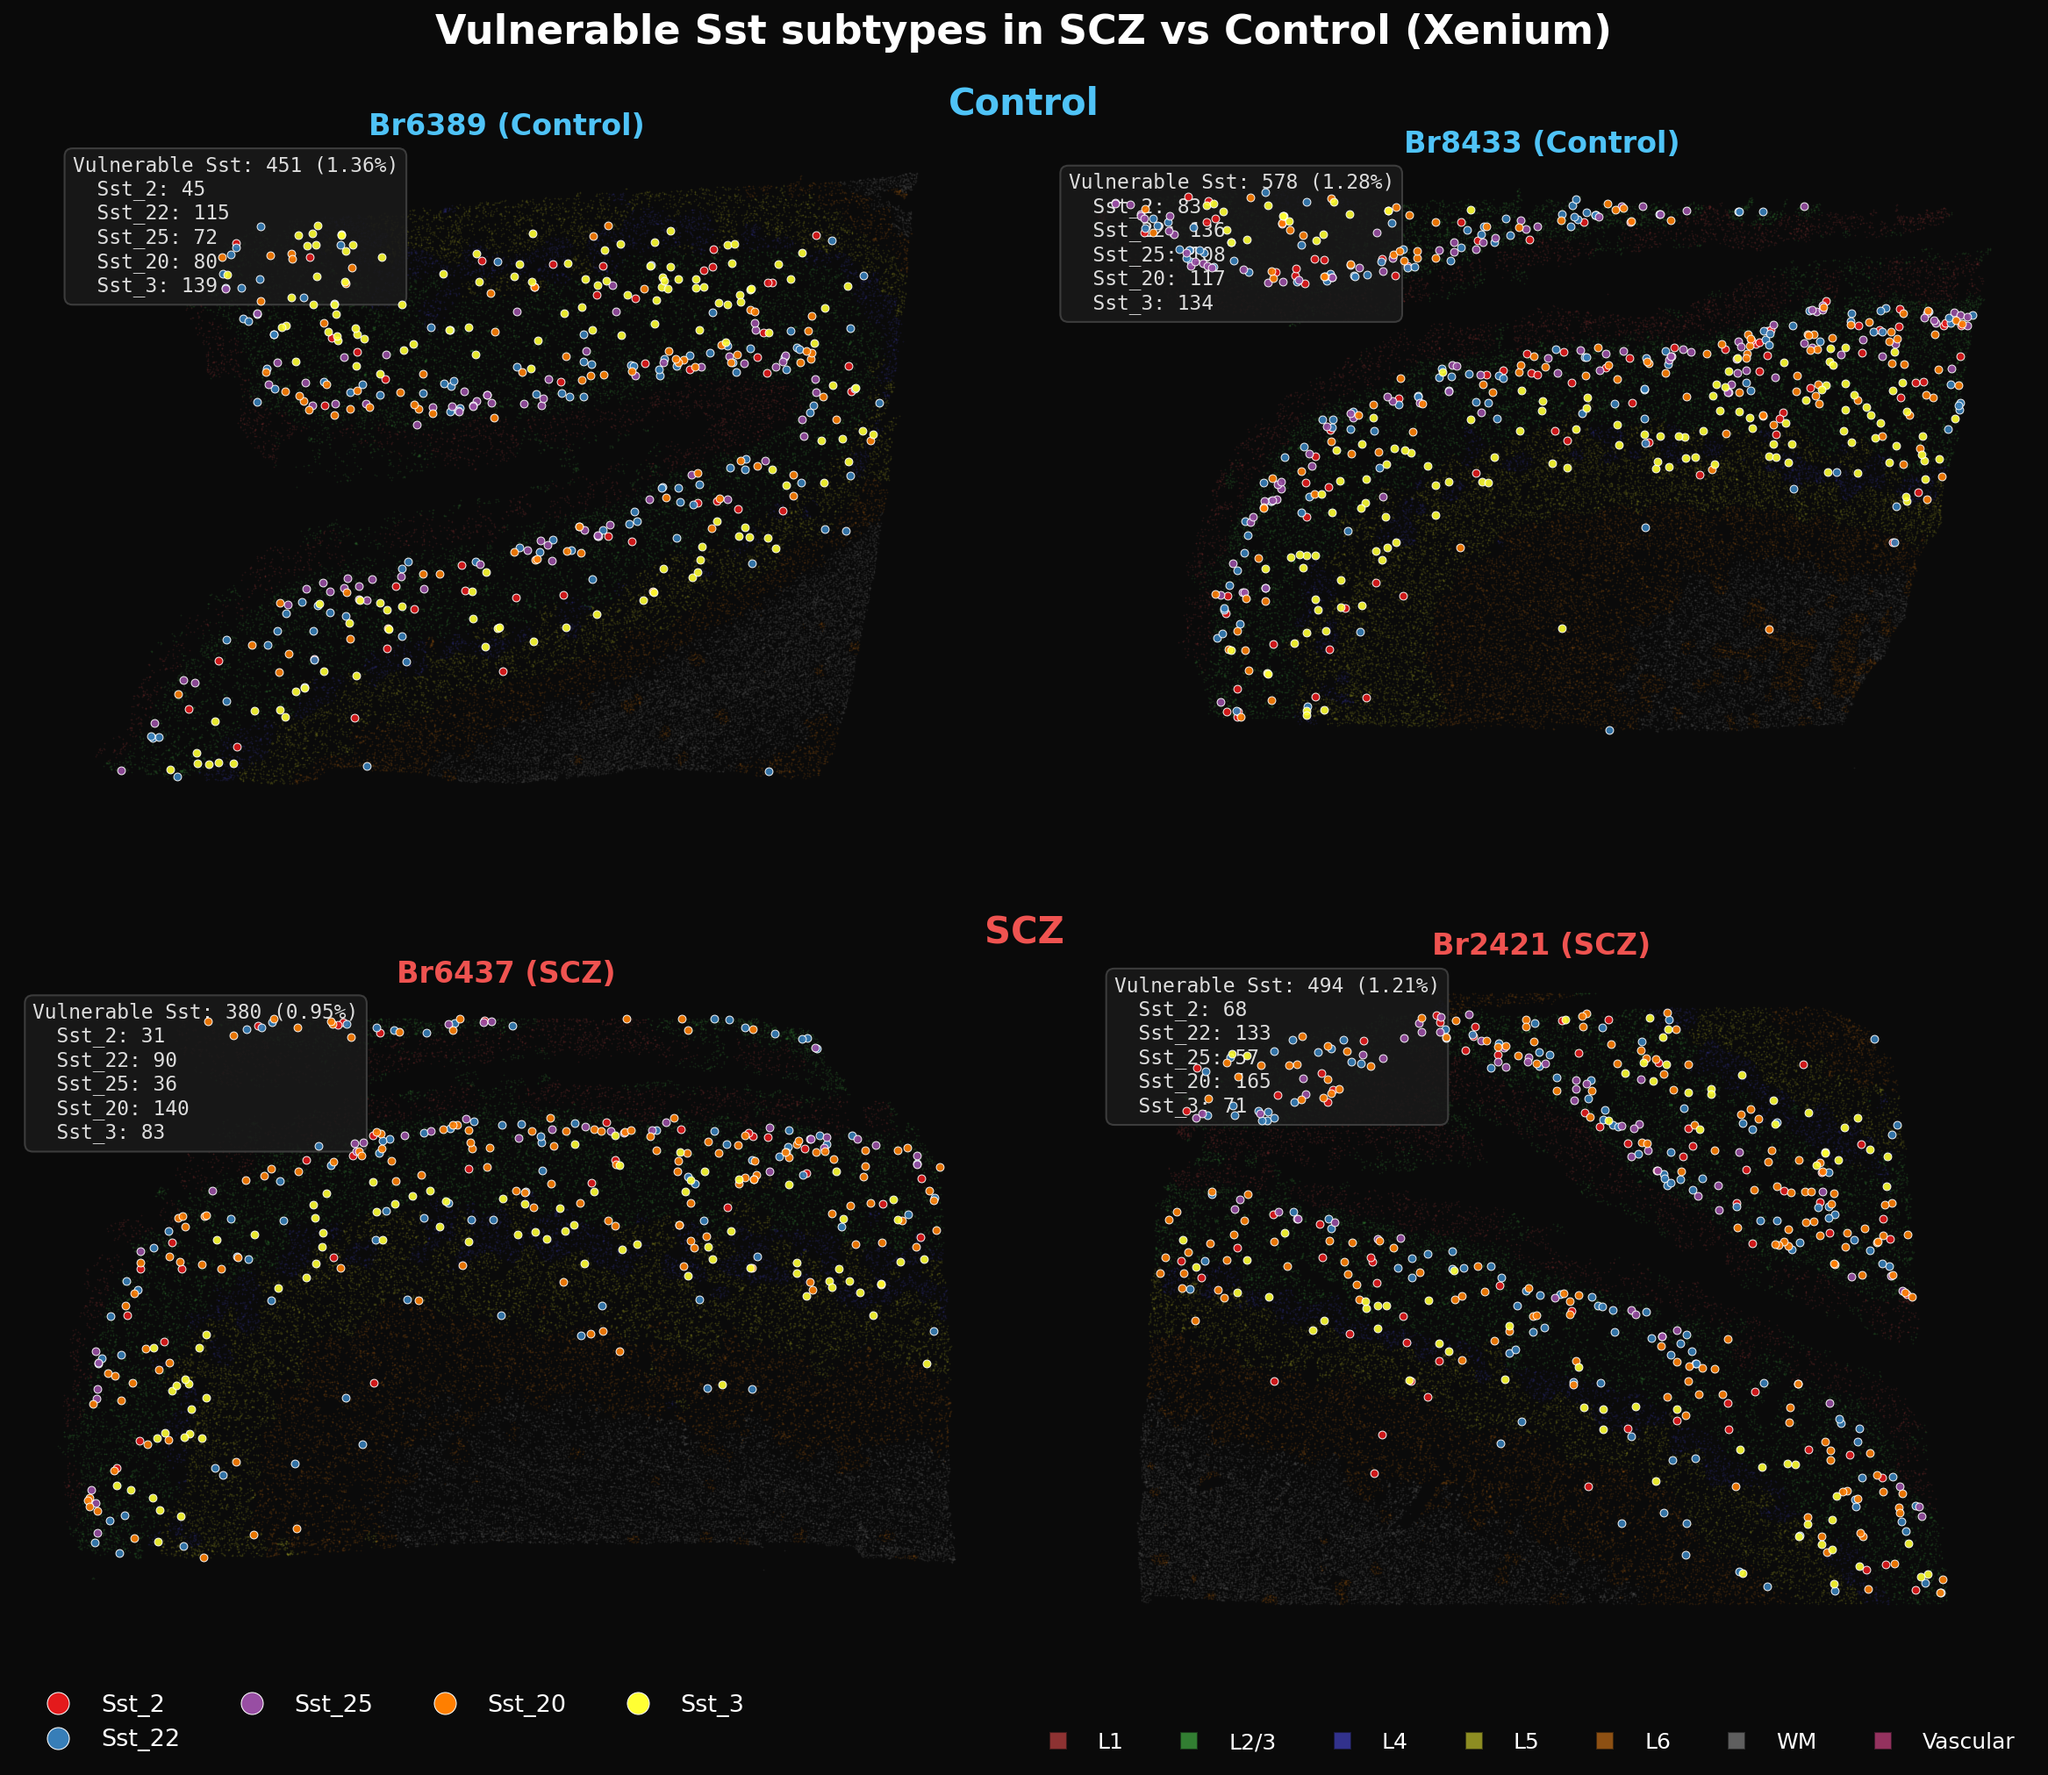
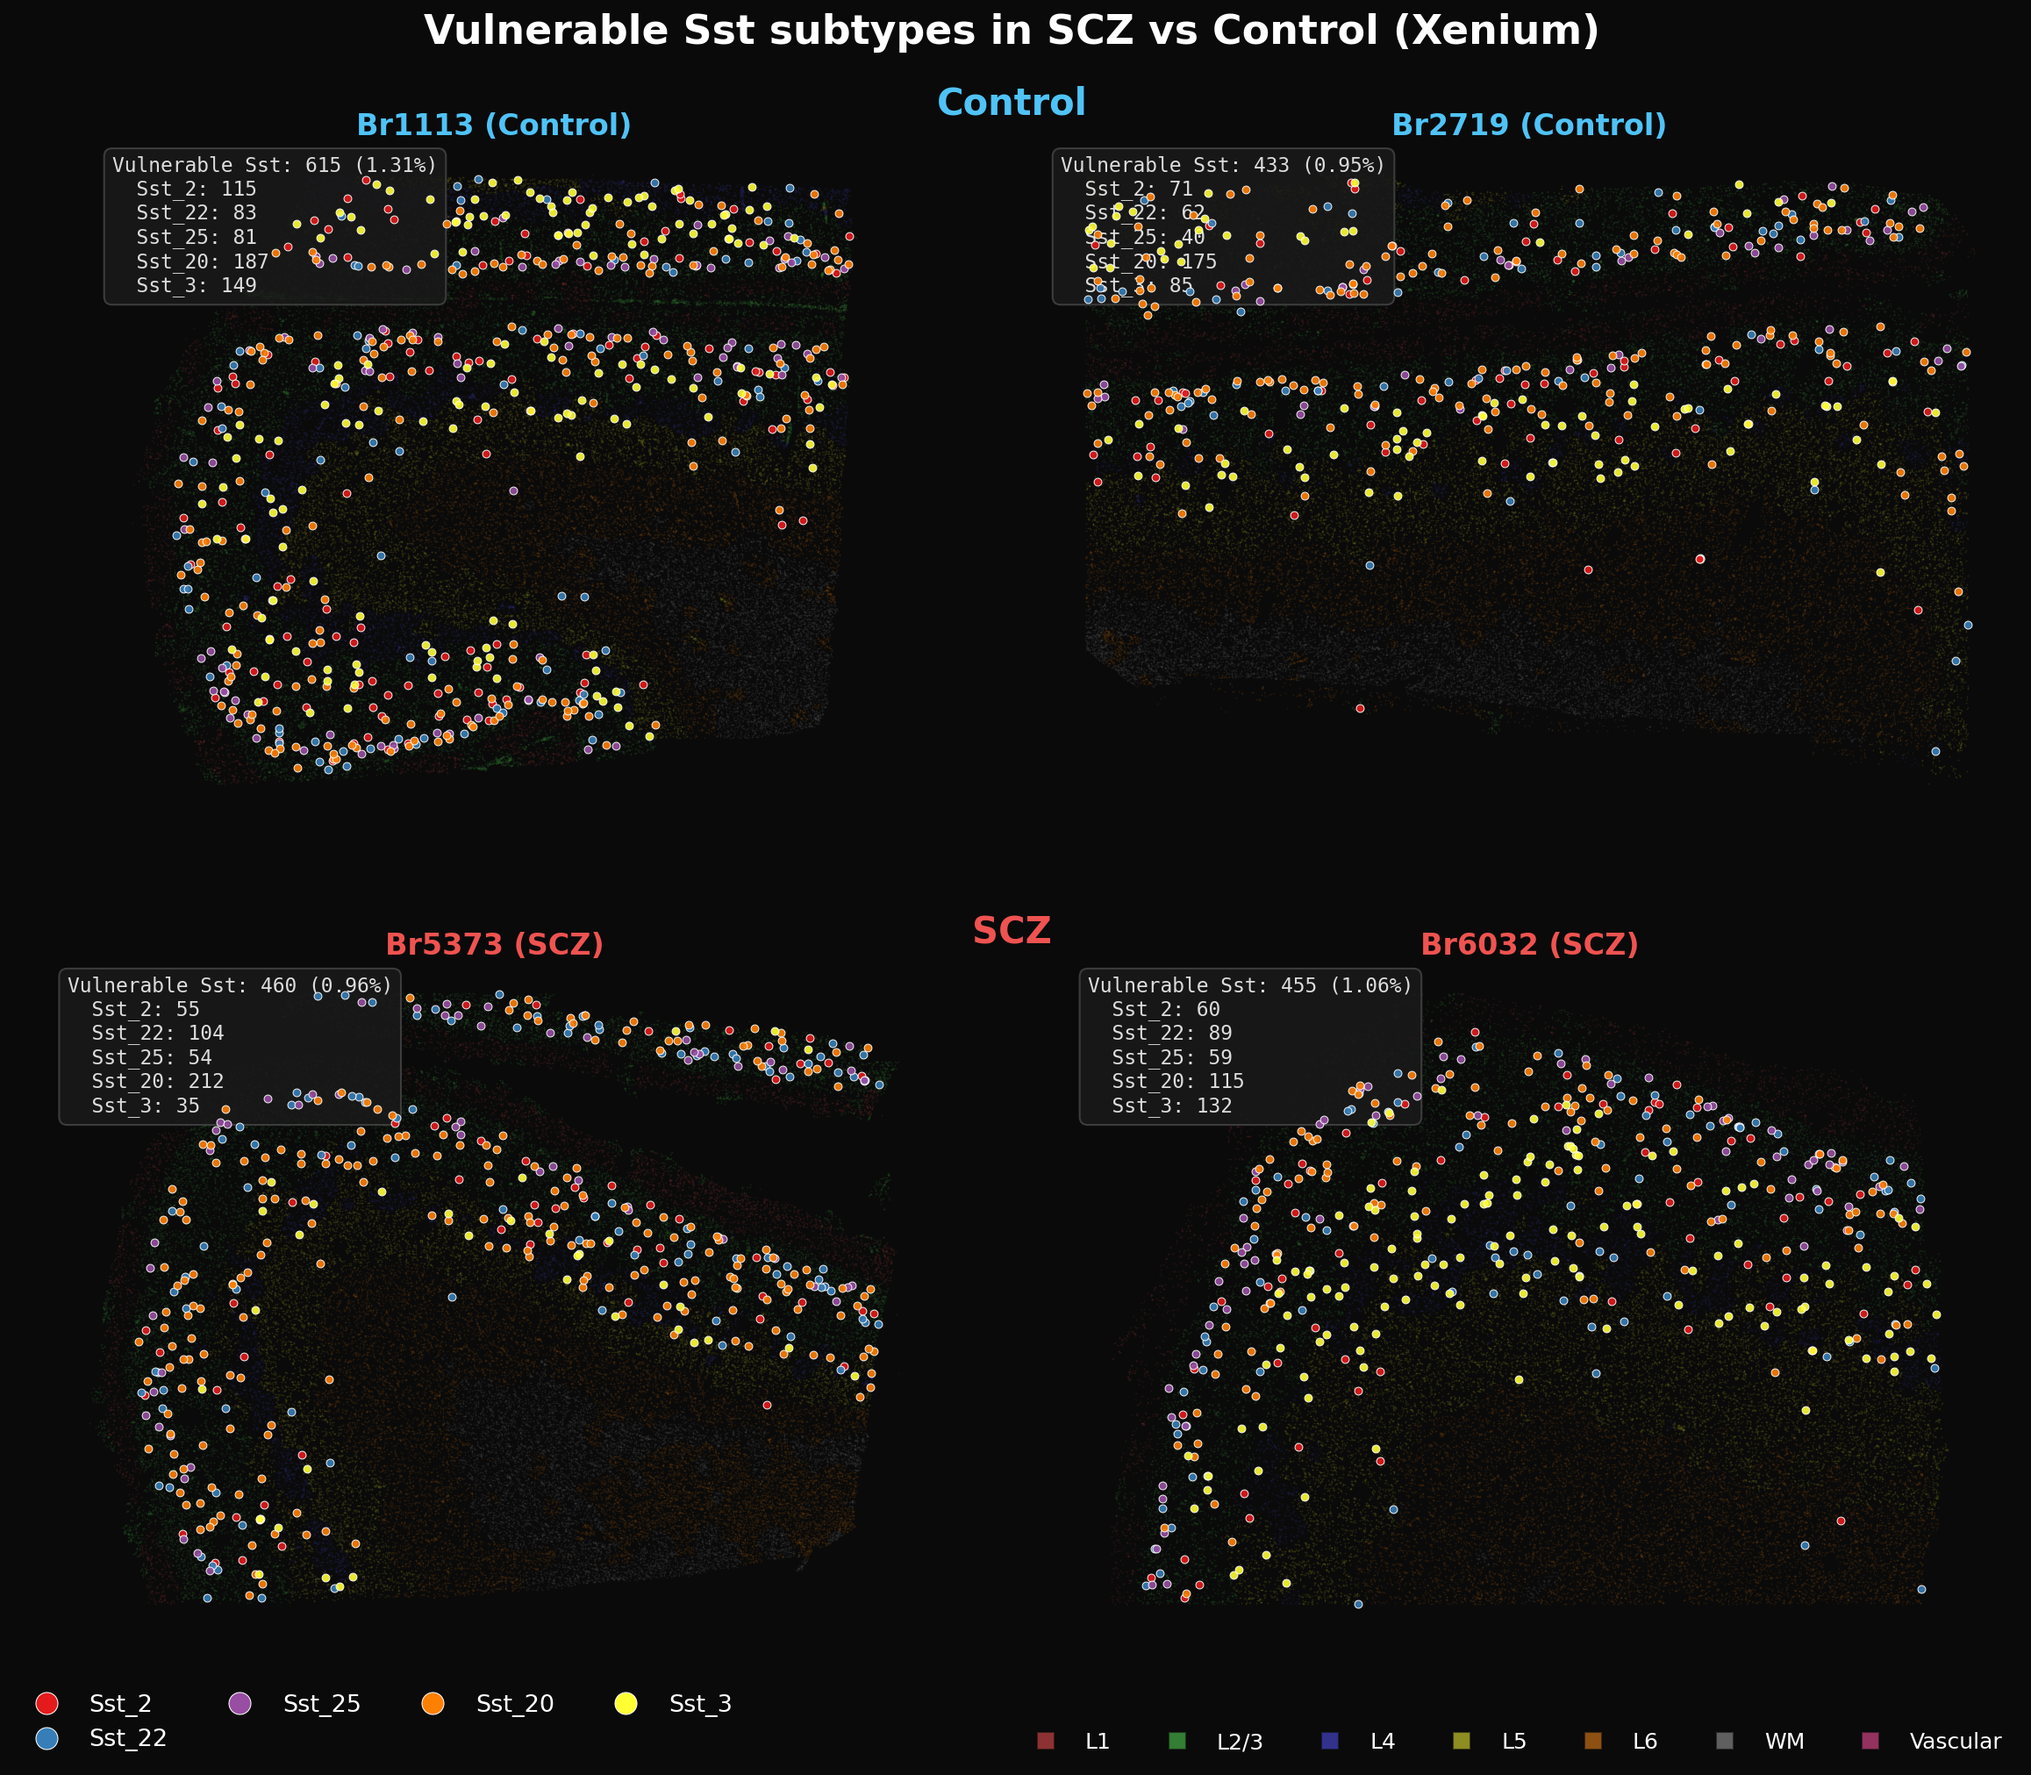
Restructure concordance doc, add depth figures, update representative samples
- Move supertype boxplots and spatial figures from Section 3 to end of
  Section 2 (SCZ effects), keeping Section 3 focused on conclusions
- Remove L6b spatial figure; keep Sst spatial with median-representative
  samples (Br1113, Br2719, Br5373, Br6032 — closest to group medians)
- Add depth-stratified figures to Section 3.1: oligo L2/3 detail,
  non-neuronal depth profiles (proportion + density), layer heatmap
- Track all depth_proportions PNGs via gitignore exception
- Update config.py REPRESENTATIVE_SAMPLES with median-selection rationale

diff --git a/code/analysis/config.py b/code/analysis/config.py
@@ -114,14 +114,17 @@ L6B_COLORS = {
 }
 
 # ──────────────────────────────────────────────────────────────────────
-# Representative samples (median for both SST and L6b, good cortical coverage)
+# Representative samples — closest to group medians for vulnerable Sst
+# proportion, with good cortical coverage (>27K cells).
+# Control median=1.59%: Br1113=1.66% (d=0.06), Br2719=1.53% (d=0.06)
+# SCZ median=1.33%: Br5373=1.32% (d=0.008), Br6032=1.34% (d=0.008)
 # ──────────────────────────────────────────────────────────────────────
 
 REPRESENTATIVE_SAMPLES = [
-    ("Br6389", "Control"),
-    ("Br8433", "Control"),
-    ("Br6437", "SCZ"),
-    ("Br2421", "SCZ"),
+    ("Br1113", "Control"),
+    ("Br2719", "Control"),
+    ("Br5373", "SCZ"),
+    ("Br6032", "SCZ"),
 ]
 
 # ──────────────────────────────────────────────────────────────────────

diff --git a/cross_platform_concordance.md b/cross_platform_concordance.md
@@ -53,7 +53,7 @@ Across 106 shared supertypes, Xenium spatial logFC and snRNA-seq meta-analysis b
 ![snRNAseq vs Xenium composition](output/presentation/slide_snrnaseq_vs_xenium.png)
 *Figure 3: SCZ effect sizes — snRNA-seq meta-analysis (x) vs Xenium spatial compositional logFC (y). r = 0.47 across 106 supertypes. Labeled points highlight the largest concordant and discordant effects.*
 
-When using cell density (cells/mm²) rather than compositional proportions, the concordance improves to **r = 0.55** (p = 3.3 × 10⁻⁹), suggesting that absolute density captures SCZ effects more faithfully than compositional analysis (which is subject to the zero-sum constraint):
+When using cell density (cells/mm²) rather than compositional proportions, the concordance improves to **r = 0.55** (p = 8.0 × 10⁻¹⁰), suggesting that absolute density captures SCZ effects more faithfully than compositional analysis (which is subject to the zero-sum constraint):
 
 ![snRNAseq vs Xenium density](output/density_analysis/snrnaseq_vs_density_supertype.png)
 *Figure 4: SCZ effect sizes — snRNA-seq meta-analysis (x) vs Xenium spatial density logFC (y). r = 0.55, n = 106 supertypes. Density-based effects show stronger agreement than compositional effects.*
@@ -81,6 +81,20 @@ Some supertypes show **discordant** SCZ effects between platforms — where one 
 
 The Sst subclass is particularly vulnerable because the 300-gene panel contains **0–1 discriminating markers** for most Sst supertypes (see [Panel Design Report](output/marker_analysis/XENIUM_PANEL_DESIGN_AND_SUPERTYPE_CLASSIFICATION.md)). The aggregate Sst depletion signal is real (both platforms agree on overall Sst reduction), but the allocation of that signal across specific supertypes is unreliable.
 
+### 2.4 Supertype-level SCZ effects in Xenium
+
+![Xenium SCZ effects — proportion boxplots](output/presentation/slide_xenium_proportion_boxplots.png)
+*Figure 5: Top supertype SCZ effects (proportions). Top row: Sst subtypes. Bottom row: L6b and deep-layer subtypes. Crumblr p-values adjusted for age and sex.*
+
+![Xenium SCZ effects — density boxplots](output/presentation/slide_xenium_density_boxplots.png)
+*Figure 6: Same supertypes, density (cells/mm²). Density effects tend to be larger and more consistent than compositional effects.*
+
+![Aggregated supertype effects](output/presentation/slide_aggregated_boxplots.png)
+*Figure 7: Aggregated effects for vulnerable Sst subtypes (Sst_2 + Sst_22 + Sst_25 + Sst_20 + Sst_3, top) and all L6b cells at subclass level (bottom). Sst depletion: proportion p = 0.02, density p = 0.17. L6b increase: proportion p = 0.10, density p = 0.08.*
+
+![Sst spatial distribution](output/presentation/slide_sst_spatial_layershading.png)
+*Figure 8: Spatial distribution of vulnerable Sst subtypes in median-representative Control (top) and SCZ (bottom) sections. Samples chosen as closest to group median Sst proportion (Control: Br1113, Br2719; SCZ: Br5373, Br6032). Layer boundaries shown as colored bands.*
+
 ---
 
 ## 3. What Can Be Safely Concluded
@@ -96,6 +110,17 @@ These findings survive multiple independent validations and should be considered
 - Consistent across compositional (crumblr) and density-based analyses
 - Not driven by a single sample or tissue geometry confound
 
+![Oligodendrocyte L2/3 detail](output/depth_proportions/oligo_L23_detail.png)
+*Figure 9: Deep dive on the Oligodendrocyte L2/3 finding. (A) Depth profile by diagnosis. (B–C) L2/3-specific proportion and density. (D) Proportion across all layers. (E) Per-sample ranked comparison. (F) Oligodendrocyte count vs L2/3 size (confound check).*
+
+The depth-stratified analysis reveals that oligodendrocyte depletion is not uniform across cortex — the non-neuronal depth profiles show clear SCZ–Control separation for oligodendrocytes, with the effect concentrated in superficial layers where oligodendrocytes are normally sparse:
+
+![Non-neuronal depth profiles — proportion](output/depth_proportions/depth_profiles_nonneuronal.png)
+*Figure 10: Non-neuronal subclass depth profiles (% of non-neuronal class). SCZ (red) vs Control (blue). Oligodendrocyte and OPC show clear separation between SCZ and Control curves. Stars indicate per-bin significance.*
+
+![Non-neuronal depth profiles — density](output/depth_proportions/depth_density_nonneuronal.png)
+*Figure 11: Non-neuronal subclass density profiles (cells/mm²). Endothelial cells show increased density across nearly all depth bins in SCZ.*
+
 **Neuronal laminar architecture is preserved:**
 - No neuronal subclass shows a significant depth × diagnosis interaction
 - 22/23 subclasses have significant depth main effects (FDR < 0.05)
@@ -105,6 +130,11 @@ These findings survive multiple independent validations and should be considered
 - Subclass depth concordance with MERFISH: r = 0.96
 - Supertype depth concordance: r = 0.95
 - All MERFISH-derived layer boundaries validated within ±0.03
+
+The layer-specific density heatmap shows the full pattern of SCZ effects across all subclasses and layers:
+
+![Layer heatmap — density](output/depth_proportions/layer_heatmap_density_per_mm2_vertical.png)
+*Figure 12: Layer-specific density changes (log₂FC, SCZ vs Control). Layers on y-axis, pia at top. Oligodendrocyte depletion strongest in L2/3. Endothelial increases across multiple layers. See [Depth-Stratified Analysis Report](output/depth_proportions/DEPTH_STRATIFIED_ANALYSIS_REPORT.md) for full per-layer model results.*
 
 ### 3.2 Moderate-confidence findings (subclass/supertype level)
 
@@ -117,22 +147,13 @@ These show consistent trends but do not reach FDR significance in all analyses:
 
 **Endothelial density increase:**
 - Widespread density increases across L2/3–L5 (multiple nominal p < 0.01)
-- Consistent direction across layers, but no individual test survives FDR
+- Consistent direction across layers (visible in Figure 11 and 12), but no individual test survives FDR
 
 **L6b subclass increase:**
 - All L6b supertypes (L6b_1–L6b_6) aggregated at subclass level show increased proportion and density in SCZ
-- Aggregated L6b effect: p = 0.10 (proportion), p = 0.08 (density)
+- Aggregated L6b effect: p = 0.10 (proportion), p = 0.08 (density) — see Figure 7
 - Concordant with snRNA-seq meta-analysis direction
 - But L6b classification has known issues (7.2% still misplaced in upper layers)
-
-![Aggregated supertype effects](output/presentation/slide_aggregated_boxplots.png)
-*Figure 5: Aggregated effects for vulnerable Sst subtypes (Sst_2 + Sst_22 + Sst_25 + Sst_20 + Sst_3, top) and all L6b cells at subclass level (bottom). Sst depletion: proportion p = 0.02, density p = 0.17. L6b increase: proportion p = 0.10, density p = 0.08.*
-
-![Sst spatial distribution](output/presentation/slide_sst_spatial_layershading.png)
-*Figure 6: Spatial distribution of vulnerable Sst subtypes in representative Control (top) and SCZ (bottom) sections. Each dot is one cell, colored by supertype. Layer boundaries shown as colored bands. Cell counts and proportions per sample shown in insets.*
-
-![L6b spatial distribution](output/presentation/slide_l6b_spatial_layershading.png)
-*Figure 7: Spatial distribution of L6b subtypes in the same representative sections. L6b cells concentrate near the L6/WM boundary as expected. SCZ samples show increased L6b counts.*
 
 ### 3.3 Findings that require caution (supertype level)
 
@@ -151,12 +172,6 @@ These should be interpreted carefully due to classification limitations:
 **Non-neuronal supertype distinctions:**
 - Astro_3, Oligo_1 vs Oligo_2, Micro-PVM_2 — these show interesting effects but the supertype boundaries are defined by markers largely absent from the Xenium panel
 - Subclass-level conclusions (Oligodendrocyte depleted, Astrocyte trending) are safer than supertype-level ones
-
-![Xenium SCZ effects — proportion boxplots](output/presentation/slide_xenium_proportion_boxplots.png)
-*Figure 8: Top supertype SCZ effects (proportions). Top row: Sst subtypes. Bottom row: L6b and deep-layer subtypes. Crumblr p-values adjusted for age and sex.*
-
-![Xenium SCZ effects — density boxplots](output/presentation/slide_xenium_density_boxplots.png)
-*Figure 9: Same supertypes, density (cells/mm²). Density effects tend to be larger and more consistent than compositional effects.*
 
 ---
 
